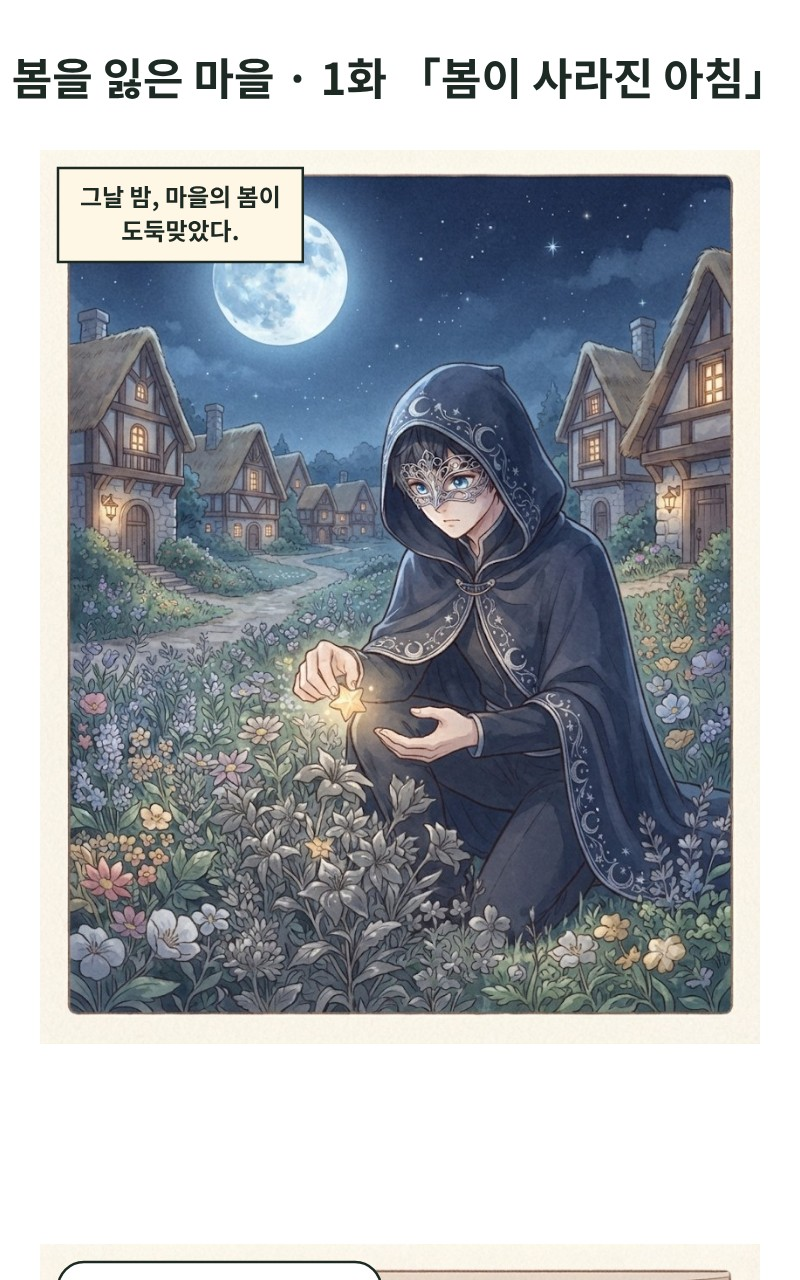
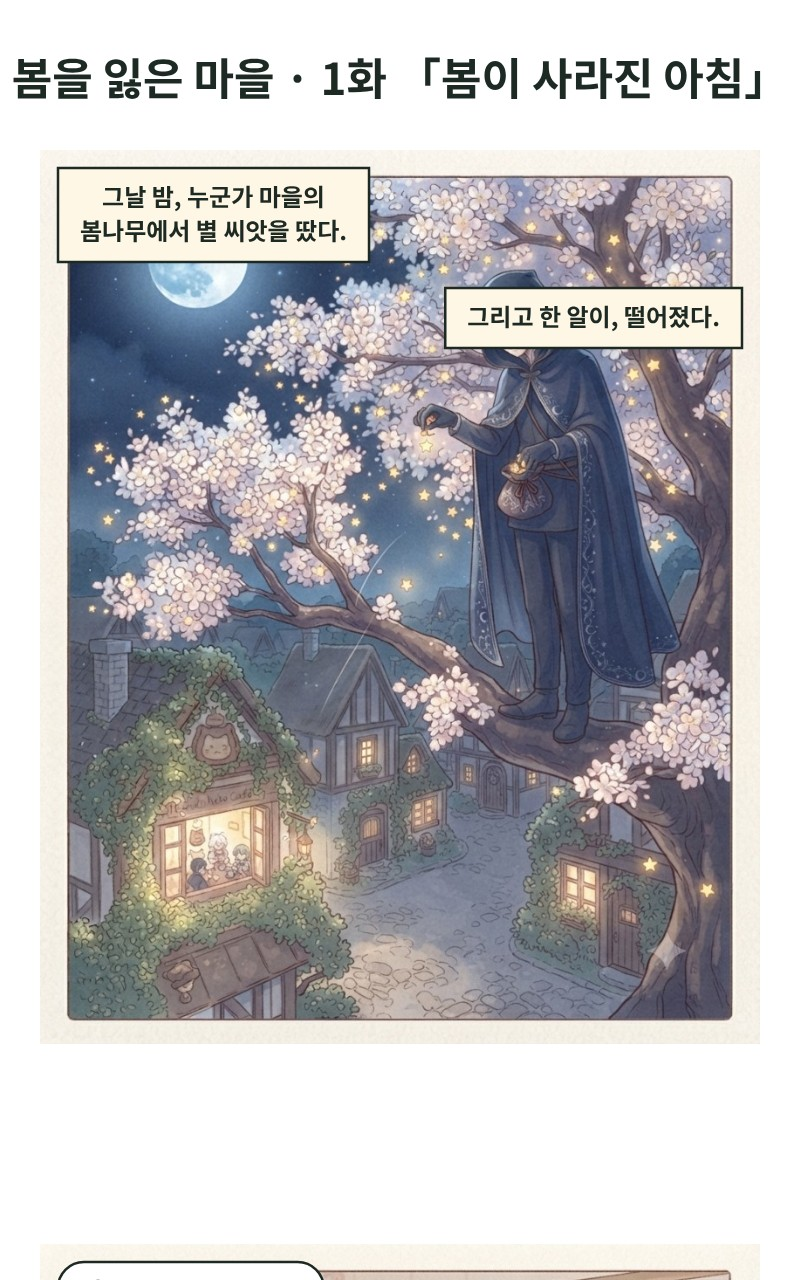
딸깍툰 1화 재구성(13컷): 인과 사슬로 다시 짜고 새로 그림, 이전판은 ep1/old 보관, 재미 공식 1.1 개연성 검토 추가
Claude-Session: https://claude.ai/code/session_01D8ERGz5r4FPkuXoKDYhqRw

diff --git a/web/ddalkkaktoon/index.html b/web/ddalkkaktoon/index.html
@@ -45,7 +45,7 @@ section{padding-block:80px}section.alt{background:var(--bg2)}
 .who{display:grid;grid-template-columns:1fr 1fr;gap:8px}.who div{background:#F7F5EF;border-radius:10px;padding:10px 12px}.who small{display:block;color:#6B7A71;font-size:12.5px;margin-top:2px}
 @media(max-width:760px){.world{grid-template-columns:1fr}}
 .sub{font-size:18px;margin:26px 0 12px}
-.conti{display:grid;grid-template-columns:repeat(6,1fr);gap:10px}@media(max-width:1000px){.conti{grid-template-columns:repeat(3,1fr)}}@media(max-width:560px){.conti{grid-template-columns:repeat(2,1fr)}}.ct{background:#fff;border:1px solid #E2DDD2;border-radius:12px;overflow:hidden}.ct img{width:100%;aspect-ratio:4/5;object-fit:cover;display:block}.ct div{padding:10px 12px}.ct .bt{display:inline-block;font-size:11.5px;font-weight:700;color:#2B7A5C;background:#E4F6EC;border-radius:999px;padding:2px 8px}.ct .no{font-size:12px;color:#8A9A90;margin-left:6px}.ct p{margin:6px 0 4px;font-size:13.5px;line-height:1.55}.ct q{display:block;font-size:13px;color:#1D2A23;background:#FFF7E6;border-radius:8px;padding:6px 8px;margin-top:4px;quotes:none}
+.conti{display:grid;grid-template-columns:repeat(5,1fr);gap:10px}@media(max-width:1000px){.conti{grid-template-columns:repeat(3,1fr)}}@media(max-width:560px){.conti{grid-template-columns:repeat(2,1fr)}}.ct{background:#fff;border:1px solid #E2DDD2;border-radius:12px;overflow:hidden}.ct img{width:100%;aspect-ratio:4/5;object-fit:cover;display:block}.ct div{padding:10px 12px}.ct .bt{display:inline-block;font-size:11.5px;font-weight:700;color:#2B7A5C;background:#E4F6EC;border-radius:999px;padding:2px 8px}.ct .no{font-size:12px;color:#8A9A90;margin-left:6px}.ct p{margin:6px 0 4px;font-size:13.5px;line-height:1.55}.ct q{display:block;font-size:13px;color:#1D2A23;background:#FFF7E6;border-radius:8px;padding:6px 8px;margin-top:4px;quotes:none}
 .rv{margin-top:22px;background:#fff;border:1px solid #E2DDD2;border-radius:14px;padding:16px 18px}#rvl{display:grid;grid-template-columns:repeat(auto-fill,minmax(260px,1fr));gap:6px 18px;font-size:14px}#rvl span{color:#2B7A5C;font-weight:700;margin-right:6px}#rvl small{display:block;color:#6B7A71;font-size:12.5px;margin-left:22px}
 .next{margin-top:14px;background:var(--dark);color:#fff;border-radius:14px;padding:16px 18px}.next p{margin:6px 0 0;color:#CFE0D6}
 .tthumb{display:grid;grid-template-columns:repeat(8,1fr);gap:8px;margin-top:14px}.tthumb img{width:100%;aspect-ratio:4/5;object-fit:cover;border-radius:8px;display:block}@media(max-width:700px){.tthumb{grid-template-columns:repeat(4,1fr)}}
@@ -106,12 +106,12 @@ footer{padding-block:28px;color:var(--mu);font-size:13px;text-align:center}
 
 <section id="toons"><div class="w">
  <div class="sh"><h2>만든 툰</h2><p>딸깍툰으로 실제로 만든 웹툰이에요. 누르면 처음부터 끝까지 세로로 볼 수 있어요.</p></div>
- <div class="ep1" style="margin-top:0"><div><h3>📖 1화 · 봄이 사라진 아침</h3><p>딸깍툰으로 만든 첫 작품 「봄을 잃은 마을」 1화가 나왔어요. 12컷 세로 웹툰이에요.</p>
-  <ol><li>하룻밤 새 마을의 봄이 사라져요</li><li>새싹 소녀의 새싹 핀만 빛나요</li><li>덤벙이 기사가 하늘에서 떨어지듯 등장</li><li>시든 슬라임과 첫 전투</li><li>마지막 장면 — 달빛 도둑이 마지막 별 씨앗을 훔쳐 가요</li></ol><a class="btn" href="ep1/" style="margin-top:16px;display:inline-block">📖 1화 보기</a></div>
-  <a href="ep1/"><img src="../../_stage/toon/ep1/ep1_10.jpg" alt="1화 — 새봄이 처음으로 꽃을 피우는 장면" loading="lazy"></a></div>
+ <div class="ep1" style="margin-top:0"><div><h3>📖 1화 · 봄이 사라진 아침</h3><p>딸깍툰으로 만든 첫 작품 「봄을 잃은 마을」 1화가 나왔어요. 13컷 세로 웹툰이에요.</p>
+  <ol><li>달빛 도둑이 봄나무의 별 씨앗을 훔치다 한 알을 흘려요</li><li>그 한 알이 새봄의 모자 새싹에 — 마을은 회색, 새싹만 빛나요</li><li>졸다가 봄나무를 못 지킨 견습 기사 루비</li><li>빛을 따라온 회색 슬라임 → 새봄이 처음으로 꽃을 피워요</li><li>마지막 장면 — "한 알을 흘렸군."</li></ol><a class="btn" href="ep1/" style="margin-top:16px;display:inline-block">📖 1화 보기</a></div>
+  <a href="ep1/"><img src="../../_stage/toon/ep1v2/e1_11.jpg" alt="1화 — 새봄이 처음으로 꽃을 피우는 장면" loading="lazy"></a></div>
 
- <div class="tthumb"><a href="ep1/"><img src="../../_stage/toon/ep1/ep1_01.jpg" alt="1화 1번 컷" loading="lazy"></a><a href="ep1/"><img src="../../_stage/toon/ep1/ep1_02.jpg" alt="1화 2번 컷" loading="lazy"></a><a href="ep1/"><img src="../../_stage/toon/ep1/ep1_05.jpg" alt="1화 5번 컷" loading="lazy"></a><a href="ep1/"><img src="../../_stage/toon/ep1/ep1_06.jpg" alt="1화 6번 컷" loading="lazy"></a><a href="ep1/"><img src="../../_stage/toon/ep1/ep1_08.jpg" alt="1화 8번 컷" loading="lazy"></a><a href="ep1/"><img src="../../_stage/toon/ep1/ep1_10.jpg" alt="1화 10번 컷" loading="lazy"></a><a href="ep1/"><img src="../../_stage/toon/ep1/ep1_11.jpg" alt="1화 11번 컷" loading="lazy"></a><a href="ep1/"><img src="../../_stage/toon/ep1/ep1_12.jpg" alt="1화 12번 컷" loading="lazy"></a></div>
- <div class="eps"><a class="epc on" href="ep1/"><b>1화</b><span>봄이 사라진 아침</span><small>12컷 · 공개</small></a><div class="epc"><b>2화</b><span>달빛 도둑을 쫓아서</span><small>준비 중</small></div></div>
+ <div class="tthumb"><a href="ep1/"><img src="../../_stage/toon/ep1v2/e1_01.jpg" alt="1화 1번 컷" loading="lazy"></a><a href="ep1/"><img src="../../_stage/toon/ep1v2/e1_02.jpg" alt="1화 2번 컷" loading="lazy"></a><a href="ep1/"><img src="../../_stage/toon/ep1v2/e1_03.jpg" alt="1화 3번 컷" loading="lazy"></a><a href="ep1/"><img src="../../_stage/toon/ep1v2/e1_06.jpg" alt="1화 6번 컷" loading="lazy"></a><a href="ep1/"><img src="../../_stage/toon/ep1v2/e1_08.jpg" alt="1화 8번 컷" loading="lazy"></a><a href="ep1/"><img src="../../_stage/toon/ep1v2/e1_09.jpg" alt="1화 9번 컷" loading="lazy"></a><a href="ep1/"><img src="../../_stage/toon/ep1v2/e1_11.jpg" alt="1화 11번 컷" loading="lazy"></a><a href="ep1/"><img src="../../_stage/toon/ep1v2/e1_13.jpg" alt="1화 13번 컷" loading="lazy"></a></div>
+ <div class="eps"><a class="epc on" href="ep1/"><b>1화</b><span>봄이 사라진 아침</span><small>13컷 · 공개</small></a><div class="epc"><b>2화</b><span>달빛 도둑을 쫓아서</span><small>준비 중</small></div></div>
 </div></section>
 
 <section id="formula" class="alt"><div class="w">
@@ -186,20 +186,21 @@ document.getElementById("fbeats").innerHTML=F.ep1Beats.map((b,i)=>`<div><b>${i+1
 document.getElementById("frev").innerHTML=F.review.map(r=>`<li>${r.q}</li>`).join("");
 document.getElementById("flearn").innerHTML=F.learned.slice().reverse().slice(0,10).map(l=>`<li><b>${l.what}</b> — ${l.got}</li>`).join("")})();</script>
 <script>(function(){const C=[
-["제목 전 한 장면","밤, 가면 쓴 도둑이 꽃밭에서 빛나는 별 씨앗을 줍는다","그날 밤, 마을의 봄이 도둑맞았다."],
-["일상 + 소원","아침, 새봄이 화분을 들고 오늘의 다짐","오늘은 꼭 꽃을 피워 볼 거야!"],
-["이변","문을 열자 온 마을이 회색","…어? 색이… 없어?"],
-["비밀 · 정보 격차","새봄의 새싹 핀만 초록빛으로 빛난다","내 새싹만… 빛나?"],
-["동료 · 케미","하늘에서 기사가 거꾸로 떨어진다","비켜어어어!"],
-["동료 · 케미","투구에 눈이 가려진 채 경례하는 루비 — 웃음 포인트","저기… 투구에 눈이 가려졌어요…"],
-["실수 → 대가","새봄의 빛을 따라 시든 슬라임들이 깨어난다","내 빛을… 따라온 거야?"],
-["실수 → 대가","슬라임이 고양이 카페 앞까지 몰려온다","꺄악, 우리 가게!"],
-["동료 · 케미","루비가 막아서지만 칼이 무거워 비틀비틀 — 웃음 + 새봄이 나설 이유","내가 지킨다!"],
-["첫 작은 승리","새봄의 마법에 슬라임 머리에 꽃이 핀다 (꽉 찬 폭 컷)","피었다…! 처음으로!"],
-["첫 작은 승리","카페 한 칸만 색이 돌아옴 — 따뜻한 마무리","카페 한 칸만큼, 봄이 돌아왔다."],
-["절벽","지붕 위 도둑의 별 씨앗이 새봄의 새싹과 같은 빛 — 4컷의 비밀과 연결","봄이 돌아오면 곤란하거든."]];
-document.getElementById("conti").innerHTML=C.map((c,i)=>`<div class="ct"><a href="ep1/"><img src="../../_stage/toon/ep1/ep1_${String(i+1).padStart(2,"0")}.jpg" alt="${i+1}번 컷" loading="lazy"></a><div><span class="bt">${c[0]}</span><span class="no">${i+1}컷</span><p>${c[1]}</p><q>${c[2]}</q></div></div>`).join("");
-const R=[["첫 3컷 안에 사건","3컷에서 마을이 회색으로"],["주인공이 원하는 것","꽃을 한 번도 못 피워 본 새싹 소녀"],["웃음 + 찡한 순간","거꾸로 떨어진 기사 · 처음 핀 꽃"],["개연성","새봄의 빛이 슬라임을 깨움(실수) → 루비 실패 → 새봄이 직접 해결"],["다음 화 욕구","도둑 손에 마지막 씨앗"],["얼굴·옷 같음","한 채팅방에서만 그림 · 어긋난 3컷은 다시"],["말풍선 3개 이하","컷당 1~2개"],["처음과 끝 분위기","밤의 도둑으로 시작해 밤의 도둑으로 끝"]];
+["제목 전 한 장면","밤, 도둑이 봄나무에서 별 씨앗을 따다 한 알을 흘린다","그리고 한 알이, 떨어졌다."],
+["일상 + 소원","아침, 꽃을 한 번도 못 피운 새봄의 모자 새싹이 빛난다","어? 꽃 한 번 못 피운 내 새싹이… 빛나?"],
+["이변","문을 열자 온 마을이 회색 — 새싹만 빛난다","마을이… 회색이야?!"],
+["이변","봄나무가 앙상하다. 지키던 기사는 졸고 있다 (도둑이 들 수 있었던 이유)","쿠울… 경계 중…"],
+["동료 · 케미","깬 루비가 허둥지둥 경례 — 웃음 + 지키지 못한 죄책감","잠깐 졸았을 뿐인데…!"],
+["비밀 · 정보 격차","루비가 알아본다: 새봄의 빛은 봄나무의 별 씨앗","그 빛… 봄나무의 별 씨앗이야!"],
+["실수 → 대가","새봄이 빛을 들여다보자 회색 슬라임이 빛을 따라 기어 나온다","회색 슬라임은 빛을 따라와!"],
+["실수 → 대가","슬라임이 고양이 카페 화분을 덮친다","꺄악, 우리 가게 화분들!"],
+["동료 · 케미","루비가 막아서지만 칼이 무거워 넘어짐 — 웃음 + 새봄이 나설 이유","…라고 했지만, 칼이 너무 무거웠다."],
+["첫 작은 승리","자기 빛 때문이니 자기가 해결하겠다는 새봄의 선택","내 빛 때문이야… 그러니까, 내가!"],
+["첫 작은 승리","슬라임 머리에 꽃이 피고 카페만 색이 돌아온다 (꽉 찬 폭 컷)","피었다…! 처음으로!"],
+["동료 · 케미","카페에서 라떼 — 다음 목표(기사단 본부)가 생긴다","그 씨앗, 기사단 본부에 꼭 알려야 해."],
+["절벽","밤, 지붕 위 도둑이 빛나는 카페 창을 내려다본다","한 알을 흘렸군."]];
+document.getElementById("conti").innerHTML=C.map((c,i)=>`<div class="ct"><a href="ep1/"><img src="../../_stage/toon/ep1v2/e1_${String(i+1).padStart(2,"0")}.jpg" alt="${i+1}번 컷" loading="lazy"></a><div><span class="bt">${c[0]}</span><span class="no">${i+1}컷</span><p>${c[1]}</p><q>${c[2]}</q></div></div>`).join("");
+const R=[["첫 3컷 안에 사건","3컷에서 마을이 회색으로"],["주인공이 원하는 것","꽃을 한 번도 못 피워 본 새싹 소녀"],["웃음 + 찡한 순간","거꾸로 떨어진 기사 · 처음 핀 꽃"],["개연성","도둑이 흘린 씨앗 → 새싹이 빛남 → 빛이 슬라임을 부름 → 루비 실패 → 새봄이 책임지고 해결 → 도둑이 눈치챔"],["다음 화 욕구","도둑이 흘린 한 알을 알아챘다 — 새봄을 찾으러 올까?"],["얼굴·옷 같음","한 채팅방에서만 그림 · 어긋난 3컷은 다시"],["말풍선 3개 이하","컷당 1~2개"],["처음과 끝 분위기","'한 알이 떨어졌다'로 시작해 '한 알을 흘렸군'으로 끝"]];
 document.getElementById("rvl").innerHTML=R.map(r=>`<div><span>✓</span>${r[0]}<small>${r[1]}</small></div>`).join("")})();</script>
 </body>
 </html>

diff --git a/web/ddalkkaktoon/formula.js b/web/ddalkkaktoon/formula.js
@@ -2,7 +2,7 @@
    딸깍툰 엔진(planEpisode)이 이 공식으로 한 화의 비트·컷·간격·검토 기준을 자동으로 짠다.
    매일 학습이 이어지면 learned[]에 새 출처가 쌓이고 version이 올라간다. */
 window.DDK_FORMULA = {
-  version: "1.0",
+  version: "1.1",
   updated: "2026-11-20",
 
   /* 한 화 구성: 1화(시즌 오프너)는 우수작 공통 8비트 */
@@ -45,6 +45,8 @@ window.DDK_FORMULA = {
     { k: "want",    q: "주인공이 원하는 것·모자란 것이 보이나?" },
     { k: "laugh",   q: "웃음 1번 이상 + 마음이 찡한 순간 1번 이상?" },
     { k: "logic",   q: "개연성: 왜 그렇게 행동했는지 납득되나?" },
+    { k: "chain",   q: "인과 사슬: 모든 컷이 앞 컷 때문에 일어나나? (갑자기 등장·갑자기 해결 없음)" },
+    { k: "setup",   q: "설정 일관: 정한 규칙(회색 마을·누가 컬러인지·옷)이 끝까지 지켜지나?" },
     { k: "next",    q: "마지막 컷을 보고 다음 화를 누르고 싶나?" },
     { k: "face",    q: "모든 컷에서 얼굴·옷이 같은가?" },
     { k: "text",    q: "말풍선이 컷당 3개 이하, 1~2문장인가?" },
@@ -53,6 +55,7 @@ window.DDK_FORMULA = {
 
   /* 지키는 것 */
   rules: [
+    "개연성이 가장 중요 — 만든 뒤 처음부터 끝까지 한 번 더 읽고 인과가 끊긴 컷은 다시 짠다 (민성님 원칙)",
     "AI로 그린 사실을 연재 때 밝힌다 (숨긴 AI가 가장 큰 반발)",
     "다른 작품 캐릭터를 따라 그리지 않는다 — 그림체만 참고",
     "프롬프트·수정 과정을 기록해 둔다 (저작권 대비)",
@@ -68,6 +71,7 @@ window.DDK_FORMULA = {
     { at: "2026-11-20", what: "WEBTOON 크리에이터 핸드북", got: "첫 3화 동시 공개 · 컷 간격 200px · 장면 전환 600~1000px · 말풍선 3개" },
     { at: "2026-11-20", what: "Alyssa Villaire 대본법", got: "한 화 1~2장면 · 최대 55컷 · 매 화 끝 훅" },
     { at: "2026-11-20", what: "artfolio 연출 스프린트", got: "1컷 훅 · 2~4 판돈 · 5~6 뒤집기 · 마지막 절벽 · 3~4컷마다 여백" },
+    { at: "2026-11-20", what: "봄을 잃은 마을 1화 재구성", got: "등장·해결마다 원인 컷을 먼저: 흘린 씨앗 → 빛 → 슬라임 → 실패 → 주인공의 선택 → 결과 → 적이 알아챔" },
     { at: "2026-11-20", what: "AI 웹툰 도구 8종", got: "캐릭터 시트 1번 참고 + 직전 컷 2번 · 10컷마다 재고정 · 글자는 따로" }
   ]
 };

diff --git a/web/ddalkkaktoon/ep1/index.html b/web/ddalkkaktoon/ep1/index.html
@@ -13,5 +13,5 @@ header a{color:var(--ink);text-decoration:none;font-weight:700}
 <div class="h"><small>봄을 잃은 마을</small><h1>1화 · 봄이 사라진 아침</h1><p>하룻밤 새 봄을 도둑맞은 마을, 새싹 소녀 새봄의 첫 하루</p></div>
 <div class="strip" id="s"></div>
 <div class="end"><p>2화 「달빛 도둑을 쫓아서」 준비 중이에요 🌱</p><a href="../">딸깍툰 홈</a><a class="o" href="../make.html">▶ 나도 딸깍 만들기</a><p style="margin-top:22px">이 웹툰은 AI(Gemini)로 그리고 Claude가 콘티·대사·편집을 했어요.</p></div>
-<script>const s=document.getElementById("s");for(let i=1;i<=11;i++){const im=new Image();im.src="ep1_"+String(i).padStart(2,"0")+".jpg";im.alt="1화 "+i+"번째 조각";im.loading=i>2?"lazy":"eager";im.width=800;s.appendChild(im)}</script>
+<script>const s=document.getElementById("s");for(let i=1;i<=12;i++){const im=new Image();im.src="ep1_"+String(i).padStart(2,"0")+".jpg";im.alt="1화 "+i+"번째 조각";im.loading=i>2?"lazy":"eager";im.width=800;s.appendChild(im)}</script>
 </body></html>
